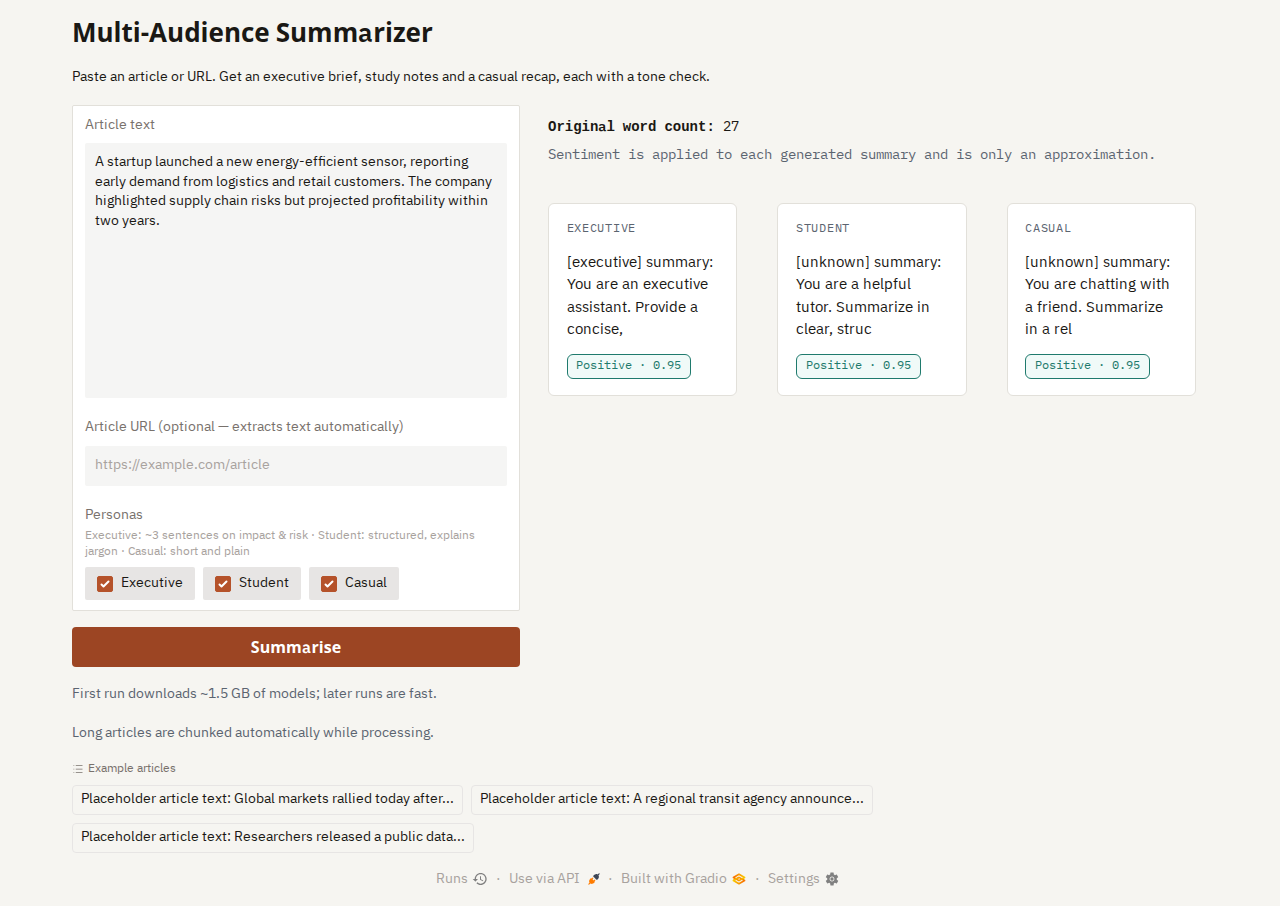
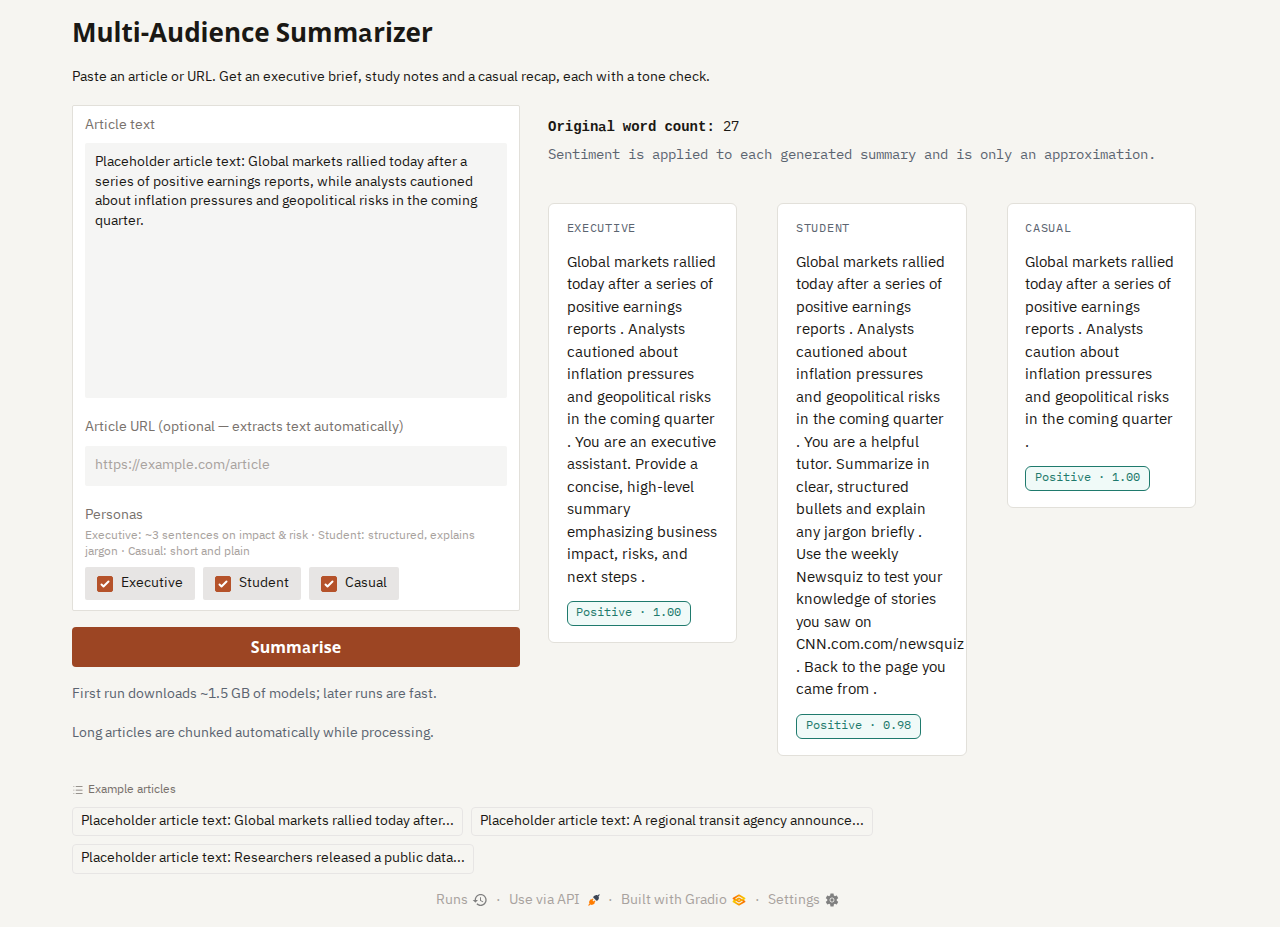
docs: real-model results screenshot and dedupe README images
Recapture screenshot_results.png with default HF models on CPU and the
bundled sample article. Refresh screenshot_main.png (empty state only).
README hero uses results PNG plus one main UI image.

diff --git a/README.md b/README.md
@@ -2,11 +2,9 @@
 
 Summarise one article three ways (exec brief, study notes, casual recap) and see the tone of each.
 
-![Multi-Audience Summarizer — main UI](assets/screenshot_main.png)
+![Multi-Audience Summarizer — results with three persona cards](assets/screenshot_results.png)
 
-| Main UI | Results (three persona cards) |
-|---------|-------------------------------|
-| ![Main UI](assets/screenshot_main.png) | ![Results](assets/screenshot_results.png) |
+![Multi-Audience Summarizer — main UI (empty state)](assets/screenshot_main.png)
 
 Persona-aware article summarisation with a Gradio web UI, chunked long-input support, and CI via GitHub Actions.
 
